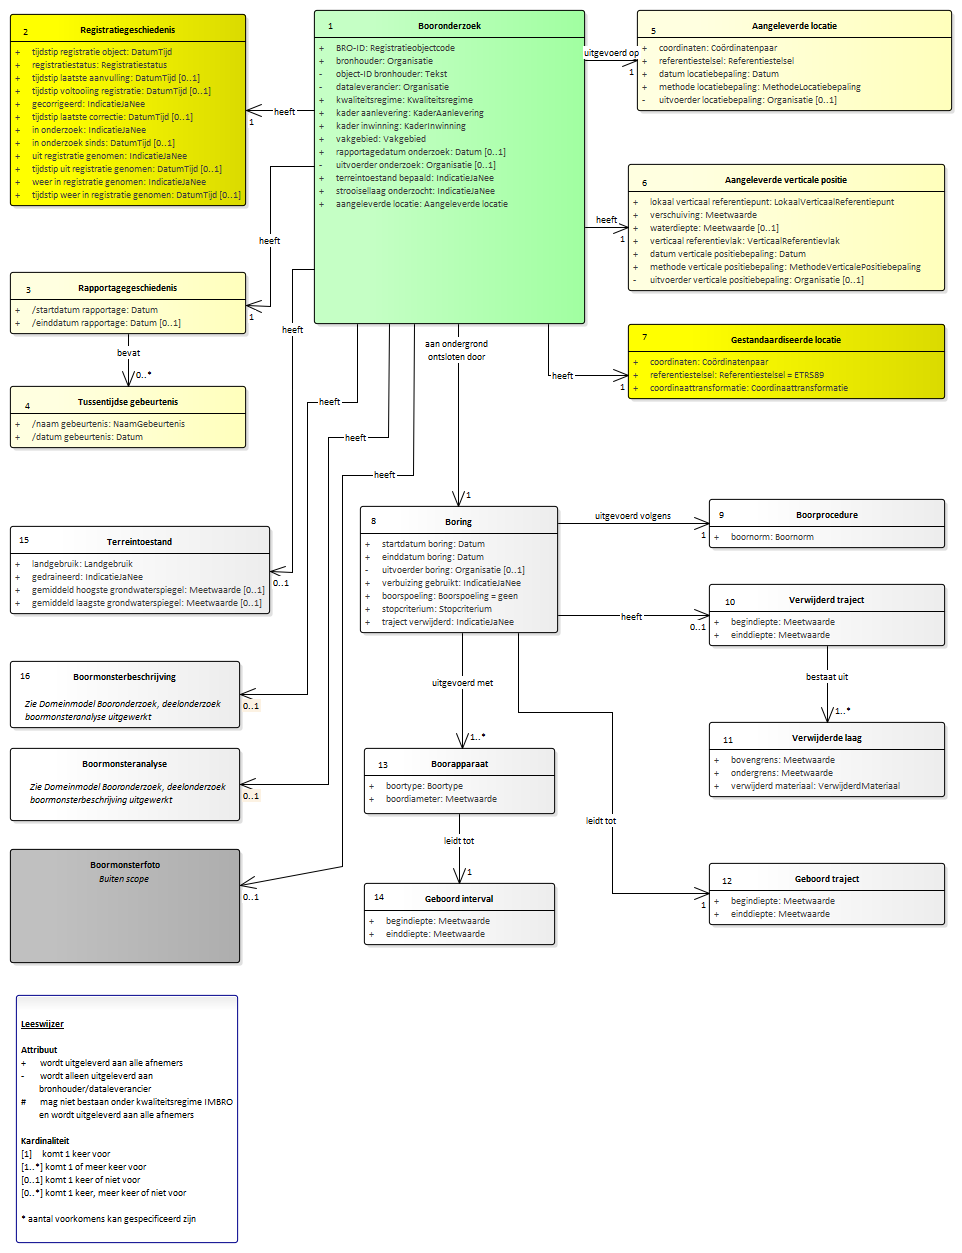
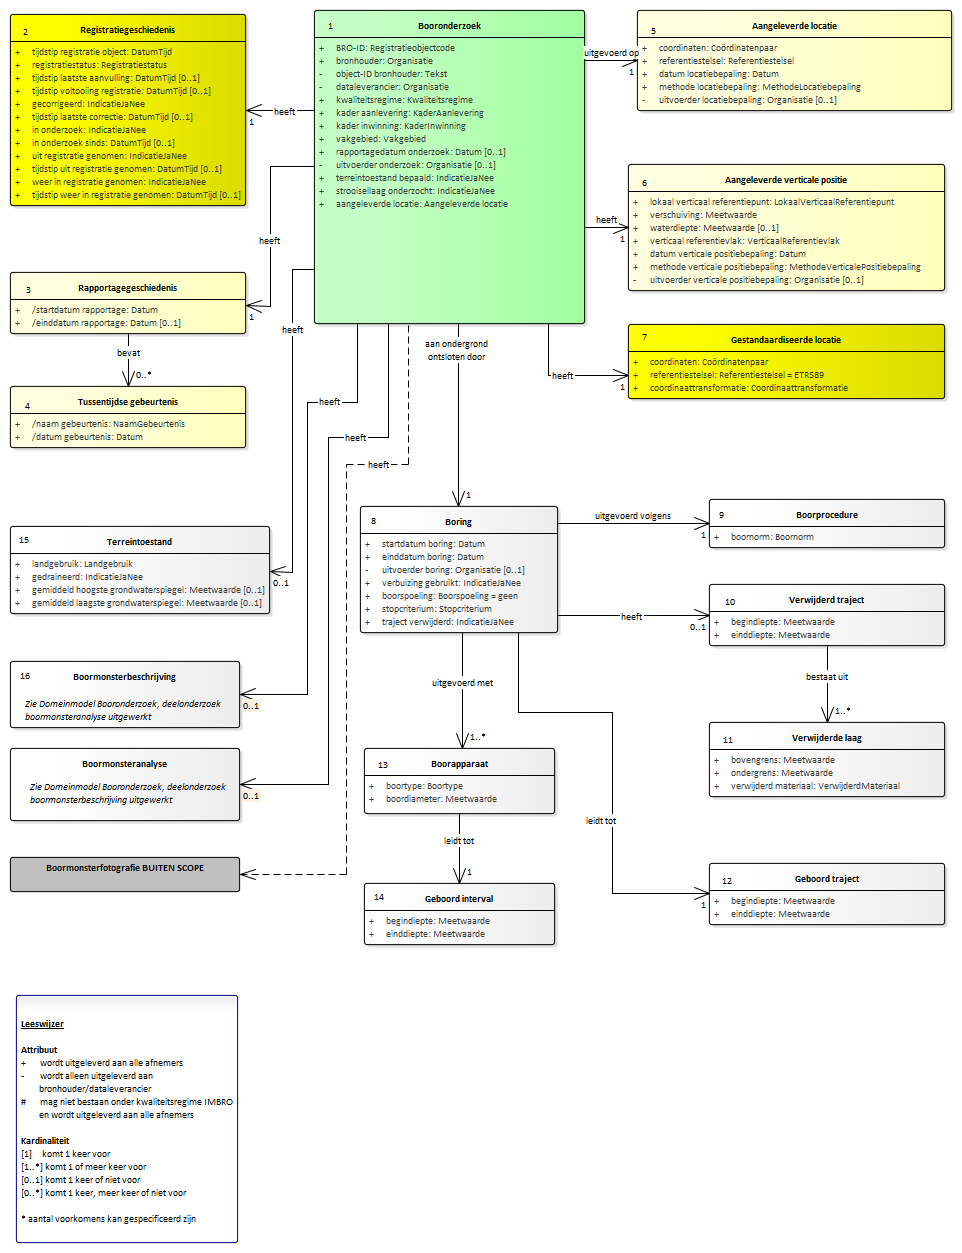
Conceptualmodel-BHR-Pconceptueel-MIM-1.9127november2019-1-20191127-20191219-151821

Changed region(s): [[0.0, 0.6536, 0.2807, 0.7781]]

diff --git a/data/BHR-P-cat.msword.html b/data/BHR-P-cat.msword.html
@@ -13,7 +13,7 @@
    <body>
       <p>Conceptual model/BHR-P conceptueel - MIM/20191127</p>
       <p>Imvertor: 1.56.2</p>
-      <p>Model release: Conceptualmodel-BHR-Pconceptueel-MIM-1.9127november2019-1-20191127-20191219-141546</p>
+      <p>Model release: Conceptualmodel-BHR-Pconceptueel-MIM-1.9127november2019-1-20191127-20191219-151821</p>
       <hr>
       <section>
          <h1>Artikel 1 Definitie van registratieobject, entiteiten en attributen</h1>
@@ -53,7 +53,6 @@
                      <area shape="rect" alt="Boormonsterbeschrijving" coords="10,661,240,728" href="#graph_EAID_697C344A_A1CE_4e19_A1E8_D608CAB8F0B2">
                      <area shape="rect" alt="Registratiegeschiedenis" coords="10,14,246,206" href="#graph_EAID_8505883D_9F95_4151_9381_E70B2B7F19DE">
                      <area shape="rect" alt="Boormonsteranalyse" coords="10,748,240,821" href="#graph_EAID_C497D0C8_A7FC_4280_82C3_3C866CAA23AB">
-                     <area shape="rect" alt="Boormonsterfoto" coords="10,849,240,963" href="#graph_EAID_E906CCD7_537E_4823_955E_A5B188C254DB">
                      <area shape="rect" alt="Booronderzoek" coords="314,10,585,324" href="#graph_EAID_767F438F_1014_47bc_BBDC_98606932693D"></map><p><b>Domeinmodel BRO Booronderzoek</b></p>
                </div>
             </section>
@@ -122,7 +121,7 @@
                         <area shape="rect" alt="Aangeleverde locatie" coords="600,17,758,45" href="#graph_EAID_C81072B6_E99D_435f_9E4C_B1D5FED530D4">
                         <area shape="rect" alt="Rapportagegeschiedenis" coords="10,97,168,125" href="#graph_EAID_6C31CE0B_20BC_4ca1_9BFA_C6D0EF8B7476">
                         <area shape="rect" alt="Registratiegeschiedenis" coords="10,17,168,49" href="#graph_EAID_8505883D_9F95_4151_9381_E70B2B7F19DE">
-                        <area shape="rect" alt="Booronderzoek" coords="241,10,512,215" href="#graph_EAID_767F438F_1014_47bc_BBDC_98606932693D"></map><p><b>Booronderzoek</b></p>
+                        <area shape="rect" alt="Booronderzoek" coords="241,10,512,202" href="#graph_EAID_767F438F_1014_47bc_BBDC_98606932693D"></map><p><b>Booronderzoek</b></p>
                   </div>
                   <table style="width: 100%;">
                      <colgroup style="width: 30%;"></colgroup>
@@ -177,9 +176,6 @@
                               <br>Booronderzoek 
                               uitgevoerd op 1 
                               <a class="link" href="#global_class_ModelBHRPDeel2_AangeleverdeLocatie">Aangeleverde locatie</a>
-                              <br>Booronderzoek 
-                              heeft 0..1 
-                              <a class="link" href="#global_class_ModelBHRPDeel2_Boormonsterfoto">Boormonsterfoto</a>
                               <br>Booronderzoek 
                               heeft 0..1 
                               <a class="link" href="#global_class_ModelBHRPDeel2_Boormonsteranalyse">Boormonsteranalyse</a>
@@ -2882,6 +2878,13 @@
                   </section>
                </section><a class="anchor" id="graph_EAID_EEB4A074_34DE_4020_8995_D8081DCBBB6C"></a><section id="global_class_ModelBHRPDeel2_Boring">
                   <h3>   Boring</h3>
+                  <div class="imageinfo "><img src="Images/EAID_64D001DE_A6AC_4c03_8CD4_DA6D8E1CE69F.png" usemap="#imagemap-EAID_64D001DE_A6AC_4c03_8CD4_DA6D8E1CE69F" alt="Diagram "><map name="imagemap-EAID_64D001DE_A6AC_4c03_8CD4_DA6D8E1CE69F">
+                        <area shape="rect" alt="Boorapparaat" coords="38,240,174,268" href="#graph_EAID_F4D931C9_4668_4a29_94E7_347B9C7D4AFC">
+                        <area shape="rect" alt="Geboord traject" coords="342,193,478,221" href="#graph_EAID_BCE4FB50_EC8B_4ebc_BA2F_AED708915459">
+                        <area shape="rect" alt="Verwijderd traject" coords="342,105,478,133" href="#graph_EAID_9CAAE4E0_1030_4145_8BA6_E7E82C1A81D3">
+                        <area shape="rect" alt="Boorprocedure" coords="342,17,478,45" href="#graph_EAID_BC5BEC9E_1CD9_400e_931D_D3328E315CAA">
+                        <area shape="rect" alt="Boring" coords="10,10,202,137" href="#graph_EAID_EEB4A074_34DE_4020_8995_D8081DCBBB6C"></map><p><b>Boring</b></p>
+                  </div>
                   <table style="width: 100%;">
                      <colgroup style="width: 30%;"></colgroup>
                      <colgroup style="width: 70%;"></colgroup>
@@ -3347,6 +3350,9 @@
                   </section>
                </section><a class="anchor" id="graph_EAID_BC5BEC9E_1CD9_400e_931D_D3328E315CAA"></a><section id="global_class_ModelBHRPDeel2_Boorprocedure">
                   <h3>   Boorprocedure</h3>
+                  <div class="imageinfo "><img src="Images/EAID_A151CC2C_9B5D_495a_B5D6_000F91321002.png" usemap="#imagemap-EAID_A151CC2C_9B5D_495a_B5D6_000F91321002" alt="Diagram "><map name="imagemap-EAID_A151CC2C_9B5D_495a_B5D6_000F91321002">
+                        <area shape="rect" alt="Boorprocedure" coords="10,10,168,59" href="#graph_EAID_BC5BEC9E_1CD9_400e_931D_D3328E315CAA"></map><p><b>Boorprocedure</b></p>
+                  </div>
                   <table style="width: 100%;">
                      <colgroup style="width: 30%;"></colgroup>
                      <colgroup style="width: 70%;"></colgroup>
@@ -3424,6 +3430,10 @@
                   </section>
                </section><a class="anchor" id="graph_EAID_9CAAE4E0_1030_4145_8BA6_E7E82C1A81D3"></a><section id="global_class_ModelBHRPDeel2_VerwijderdTraject">
                   <h3>   Verwijderd traject</h3>
+                  <div class="imageinfo "><img src="Images/EAID_4C02BBF6_650D_42ed_BCC6_B4EE4E596690.png" usemap="#imagemap-EAID_4C02BBF6_650D_42ed_BCC6_B4EE4E596690" alt="Diagram "><map name="imagemap-EAID_4C02BBF6_650D_42ed_BCC6_B4EE4E596690">
+                        <area shape="rect" alt="Verwijderde laag" coords="10,144,192,172" href="#graph_EAID_4F931859_A209_48c8_95B4_EF48947342D4">
+                        <area shape="rect" alt="Verwijderd traject" coords="10,10,192,72" href="#graph_EAID_9CAAE4E0_1030_4145_8BA6_E7E82C1A81D3"></map><p><b>Verwijderd traject</b></p>
+                  </div>
                   <table style="width: 100%;">
                      <colgroup style="width: 30%;"></colgroup>
                      <colgroup style="width: 70%;"></colgroup>
@@ -3566,6 +3576,9 @@
                   </section>
                </section><a class="anchor" id="graph_EAID_4F931859_A209_48c8_95B4_EF48947342D4"></a><section id="global_class_ModelBHRPDeel2_VerwijderdeLaag">
                   <h3>   Verwijderde laag</h3>
+                  <div class="imageinfo "><img src="Images/EAID_2A8F7170_DC05_40c6_B844_ACF6052999A3.png" usemap="#imagemap-EAID_2A8F7170_DC05_40c6_B844_ACF6052999A3" alt="Diagram "><map name="imagemap-EAID_2A8F7170_DC05_40c6_B844_ACF6052999A3">
+                        <area shape="rect" alt="Verwijderde laag" coords="10,10,240,85" href="#graph_EAID_4F931859_A209_48c8_95B4_EF48947342D4"></map><p><b>Verwijderde laag</b></p>
+                  </div>
                   <table style="width: 100%;">
                      <colgroup style="width: 30%;"></colgroup>
                      <colgroup style="width: 70%;"></colgroup>
@@ -14136,25 +14149,6 @@
                      </table>
                      
                   </section>
-               </section><a class="anchor" id="graph_EAID_E906CCD7_537E_4823_955E_A5B188C254DB"></a><section id="global_class_ModelBHRPDeel2_Boormonsterfoto">
-                  <h3>   Boormonsterfoto</h3>
-                  <table style="width: 100%;">
-                     <colgroup style="width: 30%;"></colgroup>
-                     <colgroup style="width: 70%;"></colgroup>
-                     <tbody>
-                        <tr>
-                           <th>Type gegeven</th>
-                           <td>Entiteit</td>
-                        </tr>
-                        <tr>
-                           <th>Relaties met andere entiteiten</th>
-                           <td>
-                              <a class="link" href="#global_class_ModelBHRPDeel2_Booronderzoek">Booronderzoek</a>
-                              
-                              heeft 0..1 Boormonsterfoto<br></td>
-                        </tr>
-                     </tbody>
-                  </table>
                </section><a class="anchor" id="graph_EAID_8EA05DD8_C17F_4a87_918F_F797263A955A"></a><section id="global_class_ModelBHRPDeel2_Testtest">
                   <h3>   Testtest</h3>
                   <table style="width: 100%;">
